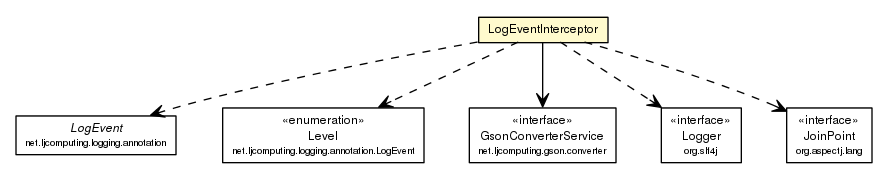
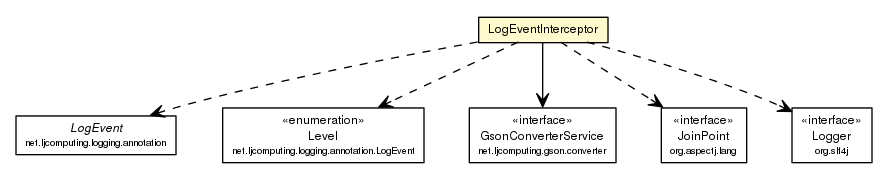
Changed services to components.

diff --git a/docs/javadoc/apidocs/net/ljcomputing/logging/LogEventInterceptor.html b/docs/javadoc/apidocs/net/ljcomputing/logging/LogEventInterceptor.html
@@ -2,7 +2,7 @@
 <!-- NewPage -->
 <html lang="en">
 <head>
-<!-- Generated by javadoc (1.8.0_66) on Sat Jan 23 16:35:37 EST 2016 -->
+<!-- Generated by javadoc (1.8.0_66) on Sat Jan 23 17:45:39 EST 2016 -->
 <meta http-equiv="Content-Type" content="text/html; charset=UTF-8">
 <title>LogEventInterceptor (LJ Computing - Logging 1.0.0-SNAPSHOT API)</title>
 <meta name="date" content="2016-01-23">
@@ -105,10 +105,10 @@ var activeTableTab = "activeTableTab";
 <area shape="rect" id="node3" href="./annotation/LogEvent.Level.html" title="&lt;TABLE&gt;" alt="" coords="211,102,434,167"/>
 <area shape="rect" id="node4_3" href="http://java.sun.com/j2se/1.4.2/docs/api/net/ljcomputing/gson/converter/GsonConverterService.html" title="net.ljcomputing.gson.converter.GsonConverterService" alt="" coords="469,107,616,162"/>
 <area shape="rect" id="node4" href="http://java.sun.com/j2se/1.4.2/docs/api/net/ljcomputing/gson/converter/GsonConverterService.html" title="&lt;TABLE&gt;" alt="" coords="459,102,627,167"/>
-<area shape="rect" id="node5_4" href="http://java.sun.com/j2se/1.4.2/docs/api/org/slf4j/Logger.html" title="org.slf4j.Logger" alt="" coords="661,107,741,162"/>
-<area shape="rect" id="node5" href="http://java.sun.com/j2se/1.4.2/docs/api/org/slf4j/Logger.html" title="&lt;TABLE&gt;" alt="" coords="651,102,752,167"/>
-<area shape="rect" id="node6_5" href="http://java.sun.com/j2se/1.4.2/docs/api/org/aspectj/lang/JoinPoint.html" title="org.aspectj.lang.JoinPoint" alt="" coords="787,107,872,162"/>
-<area shape="rect" id="node6" href="http://java.sun.com/j2se/1.4.2/docs/api/org/aspectj/lang/JoinPoint.html" title="&lt;TABLE&gt;" alt="" coords="776,102,883,167"/>
+<area shape="rect" id="node5_4" href="http://java.sun.com/j2se/1.4.2/docs/api/org/aspectj/lang/JoinPoint.html" title="org.aspectj.lang.JoinPoint" alt="" coords="661,107,747,162"/>
+<area shape="rect" id="node5" href="http://java.sun.com/j2se/1.4.2/docs/api/org/aspectj/lang/JoinPoint.html" title="&lt;TABLE&gt;" alt="" coords="651,102,757,167"/>
+<area shape="rect" id="node6_5" href="http://java.sun.com/j2se/1.4.2/docs/api/org/slf4j/Logger.html" title="org.slf4j.Logger" alt="" coords="792,107,872,162"/>
+<area shape="rect" id="node6" href="http://java.sun.com/j2se/1.4.2/docs/api/org/slf4j/Logger.html" title="&lt;TABLE&gt;" alt="" coords="781,102,883,167"/>
 </map>
 <!-- UML diagram added by UMLGraph version R5_6 (http://www.umlgraph.org/) -->
 <div align="center"><img src="LogEventInterceptor.png" alt="Package class diagram package LogEventInterceptor" usemap="#G" border=0/></div>
@@ -127,7 +127,7 @@ var activeTableTab = "activeTableTab";
 <li class="blockList">
 <hr>
 <br>
-<pre>@Service
+<pre>@Component
 public class <a href="../../../src-html/net/ljcomputing/logging/LogEventInterceptor.html#line.41">LogEventInterceptor</a>
 extends <a href="http://docs.oracle.com/javase/8/docs/api/java/lang/Object.html?is-external=true" title="class or interface in java.lang">Object</a></pre>
 <div class="block">Log event interceptor.</div>

diff --git a/docs/javadoc/apidocs/src-html/net/ljcomputing/logging/LogEventInterceptor.html b/docs/javadoc/apidocs/src-html/net/ljcomputing/logging/LogEventInterceptor.html
@@ -31,7 +31,7 @@
 <span class="sourceLineNo">023</span>import org.slf4j.LoggerFactory;<a name="line.23"></a>
 <span class="sourceLineNo">024</span><a name="line.24"></a>
 <span class="sourceLineNo">025</span>import org.springframework.beans.factory.annotation.Autowired;<a name="line.25"></a>
-<span class="sourceLineNo">026</span>import org.springframework.stereotype.Service;<a name="line.26"></a>
+<span class="sourceLineNo">026</span>import org.springframework.stereotype.Component;<a name="line.26"></a>
 <span class="sourceLineNo">027</span><a name="line.27"></a>
 <span class="sourceLineNo">028</span>import org.aspectj.lang.JoinPoint;<a name="line.28"></a>
 <span class="sourceLineNo">029</span>import org.aspectj.lang.annotation.AfterReturning;<a name="line.29"></a>
@@ -44,8 +44,8 @@
 <span class="sourceLineNo">036</span> * @author James G. Willmore<a name="line.36"></a>
 <span class="sourceLineNo">037</span> *<a name="line.37"></a>
 <span class="sourceLineNo">038</span> */<a name="line.38"></a>
-<span class="sourceLineNo">039</span>@Service<a name="line.39"></a>
-<span class="sourceLineNo">040</span>@Aspect<a name="line.40"></a>
+<span class="sourceLineNo">039</span>@Aspect<a name="line.39"></a>
+<span class="sourceLineNo">040</span>@Component<a name="line.40"></a>
 <span class="sourceLineNo">041</span>public class LogEventInterceptor {<a name="line.41"></a>
 <span class="sourceLineNo">042</span><a name="line.42"></a>
 <span class="sourceLineNo">043</span>  /** The Gson converter service. */<a name="line.43"></a>

diff --git a/docs/javadoc/apidocs/src-html/net/ljcomputing/logging/LogEventManager.html b/docs/javadoc/apidocs/src-html/net/ljcomputing/logging/LogEventManager.html
@@ -24,7 +24,7 @@
 <span class="sourceLineNo">016</span><a name="line.16"></a>
 <span class="sourceLineNo">017</span>package net.ljcomputing.logging;<a name="line.17"></a>
 <span class="sourceLineNo">018</span><a name="line.18"></a>
-<span class="sourceLineNo">019</span>import org.springframework.stereotype.Service;<a name="line.19"></a>
+<span class="sourceLineNo">019</span>import org.springframework.stereotype.Component;<a name="line.19"></a>
 <span class="sourceLineNo">020</span><a name="line.20"></a>
 <span class="sourceLineNo">021</span>import org.aspectj.lang.annotation.Aspect;<a name="line.21"></a>
 <span class="sourceLineNo">022</span>import org.aspectj.lang.annotation.Pointcut;<a name="line.22"></a>
@@ -35,8 +35,8 @@
 <span class="sourceLineNo">027</span> * @author James G. Willmore<a name="line.27"></a>
 <span class="sourceLineNo">028</span> *<a name="line.28"></a>
 <span class="sourceLineNo">029</span> */<a name="line.29"></a>
-<span class="sourceLineNo">030</span>@Service<a name="line.30"></a>
-<span class="sourceLineNo">031</span>@Aspect<a name="line.31"></a>
+<span class="sourceLineNo">030</span>@Aspect<a name="line.30"></a>
+<span class="sourceLineNo">031</span>@Component<a name="line.31"></a>
 <span class="sourceLineNo">032</span>public class LogEventManager {<a name="line.32"></a>
 <span class="sourceLineNo">033</span><a name="line.33"></a>
 <span class="sourceLineNo">034</span>  /**<a name="line.34"></a>

diff --git a/docs/javadoc/apidocs/net/ljcomputing/logging/LogEventManager.html b/docs/javadoc/apidocs/net/ljcomputing/logging/LogEventManager.html
@@ -2,7 +2,7 @@
 <!-- NewPage -->
 <html lang="en">
 <head>
-<!-- Generated by javadoc (1.8.0_66) on Sat Jan 23 16:35:37 EST 2016 -->
+<!-- Generated by javadoc (1.8.0_66) on Sat Jan 23 17:45:39 EST 2016 -->
 <meta http-equiv="Content-Type" content="text/html; charset=UTF-8">
 <title>LogEventManager (LJ Computing - Logging 1.0.0-SNAPSHOT API)</title>
 <meta name="date" content="2016-01-23">
@@ -117,7 +117,7 @@ var activeTableTab = "activeTableTab";
 <li class="blockList">
 <hr>
 <br>
-<pre>@Service
+<pre>@Component
 public class <a href="../../../src-html/net/ljcomputing/logging/LogEventManager.html#line.32">LogEventManager</a>
 extends <a href="http://docs.oracle.com/javase/8/docs/api/java/lang/Object.html?is-external=true" title="class or interface in java.lang">Object</a></pre>
 <div class="block">Log event manager. Defines various cut points to allow for logging.</div>

diff --git a/src/main/java/net/ljcomputing/logging/LogEventInterceptor.java b/src/main/java/net/ljcomputing/logging/LogEventInterceptor.java
@@ -23,7 +23,7 @@ import org.slf4j.Logger;
 import org.slf4j.LoggerFactory;
 
 import org.springframework.beans.factory.annotation.Autowired;
-import org.springframework.stereotype.Service;
+import org.springframework.stereotype.Component;
 
 import org.aspectj.lang.JoinPoint;
 import org.aspectj.lang.annotation.AfterReturning;
@@ -36,8 +36,8 @@ import org.aspectj.lang.annotation.Before;
  * @author James G. Willmore
  *
  */
-@Service
 @Aspect
+@Component
 public class LogEventInterceptor {
 
   /** The Gson converter service. */

diff --git a/src/main/java/net/ljcomputing/logging/LogEventManager.java b/src/main/java/net/ljcomputing/logging/LogEventManager.java
@@ -16,7 +16,7 @@
 
 package net.ljcomputing.logging;
 
-import org.springframework.stereotype.Service;
+import org.springframework.stereotype.Component;
 
 import org.aspectj.lang.annotation.Aspect;
 import org.aspectj.lang.annotation.Pointcut;
@@ -27,8 +27,8 @@ import org.aspectj.lang.annotation.Pointcut;
  * @author James G. Willmore
  *
  */
-@Service
 @Aspect
+@Component
 public class LogEventManager {
 
   /**
